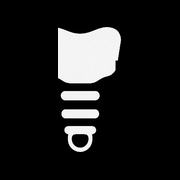
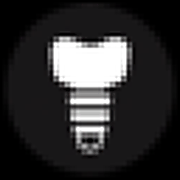
fix: corrige icones PWA da Smile Space (maskable, safe area, manifest e cache)

diff --git a/sw.js b/sw.js
@@ -1,10 +1,19 @@
-/* SmileSpace — service worker mínimo para instalabilidade PWA.
-   Sem cache de conteúdo: apenas ativa e assume o controle,
-   sem risco de servir páginas desatualizadas. */
-self.addEventListener('install', (event) => {
+/* SmileSpace - service worker minimo para instalabilidade PWA.
+   Sem cache de conteudo: apenas ativa e assume o controle,
+   sem risco de servir paginas desatualizadas.
+   Versao atualizada para forcar renovacao dos icones PWA. */
+const SMILESPACE_SW_VERSION = "2026-11-09-icons";
+
+self.addEventListener("install", (event) => {
   self.skipWaiting();
 });
 
-self.addEventListener('activate', (event) => {
-  event.waitUntil(self.clients.claim());
+self.addEventListener("activate", (event) => {
+  event.waitUntil((async () => {
+    if (self.caches) {
+      const keys = await self.caches.keys();
+      await Promise.all(keys.map((key) => self.caches.delete(key)));
+    }
+    await self.clients.claim();
+  })());
 });

diff --git a/atendimento.html b/atendimento.html
@@ -32,7 +32,9 @@
     <meta name="twitter:image:alt" content="Logotipo da SmileSpace Odontologia, clínica odontológica em Belo Horizonte">
 
     <link rel="icon" href="img/favicon.png" type="image/png" sizes="64x64">
-    <link rel="shortcut icon" href="img/favicon.png" type="image/png">
+    <link rel="icon" href="img/favicon-32x32.png" type="image/png" sizes="32x32">
+    <link rel="icon" href="img/favicon-16x16.png" type="image/png" sizes="16x16">
+    <link rel="shortcut icon" href="img/favicon.ico" type="image/x-icon">
     <link rel="apple-touch-icon" sizes="180x180" href="img/apple-touch-icon.png">
     <link rel="manifest" href="site.webmanifest">
     <link rel="stylesheet" href="https://cdnjs.cloudflare.com/ajax/libs/font-awesome/6.4.0/css/all.min.css" integrity="sha512-iecdLmaskl7CVkqkXNQ/ZH/XLlvWZOJyj7Yy7tcenmpD1ypASozpmT/E0iPtmFIB46ZmdtAc9eNBvH0H/ZpiBw==" crossorigin="anonymous" referrerpolicy="no-referrer">

diff --git a/404.html b/404.html
@@ -9,8 +9,10 @@
     <link rel="canonical" href="https://smilespace.com.br/404.html">
     <meta name="theme-color" content="#000000">
     <link rel="icon" href="img/favicon.png" type="image/png" sizes="64x64">
-    <link rel="shortcut icon" href="img/favicon.png" type="image/png">
-    <link rel="apple-touch-icon" href="img/apple-touch-icon.png">
+    <link rel="icon" href="img/favicon-32x32.png" type="image/png" sizes="32x32">
+    <link rel="icon" href="img/favicon-16x16.png" type="image/png" sizes="16x16">
+    <link rel="shortcut icon" href="img/favicon.ico" type="image/x-icon">
+    <link rel="apple-touch-icon" sizes="180x180" href="img/apple-touch-icon.png">
     <link rel="manifest" href="site.webmanifest">
     <link rel="preconnect" href="https://fonts.googleapis.com">
     <link rel="preconnect" href="https://fonts.gstatic.com" crossorigin>

diff --git a/drgabrielbarbosa.html b/drgabrielbarbosa.html
@@ -58,7 +58,9 @@
     }
     </script>
     <link rel="icon" href="img/favicon.png" type="image/png" sizes="64x64">
-    <link rel="shortcut icon" href="img/favicon.png" type="image/png">
+    <link rel="icon" href="img/favicon-32x32.png" type="image/png" sizes="32x32">
+    <link rel="icon" href="img/favicon-16x16.png" type="image/png" sizes="16x16">
+    <link rel="shortcut icon" href="img/favicon.ico" type="image/x-icon">
     <link rel="apple-touch-icon" sizes="180x180" href="img/apple-touch-icon.png">
     <link rel="manifest" href="site.webmanifest">
     <link rel="stylesheet" href="https://cdnjs.cloudflare.com/ajax/libs/font-awesome/6.4.0/css/all.min.css" integrity="sha512-iecdLmaskl7CVkqkXNQ/ZH/XLlvWZOJyj7Yy7tcenmpD1ypASozpmT/E0iPtmFIB46ZmdtAc9eNBvH0H/ZpiBw==" crossorigin="anonymous" referrerpolicy="no-referrer" />

diff --git a/drherbertfelipe.html b/drherbertfelipe.html
@@ -58,7 +58,9 @@
     }
     </script>
     <link rel="icon" href="img/favicon.png" type="image/png" sizes="64x64">
-    <link rel="shortcut icon" href="img/favicon.png" type="image/png">
+    <link rel="icon" href="img/favicon-32x32.png" type="image/png" sizes="32x32">
+    <link rel="icon" href="img/favicon-16x16.png" type="image/png" sizes="16x16">
+    <link rel="shortcut icon" href="img/favicon.ico" type="image/x-icon">
     <link rel="apple-touch-icon" sizes="180x180" href="img/apple-touch-icon.png">
     <link rel="manifest" href="site.webmanifest">
     <link rel="stylesheet" href="https://cdnjs.cloudflare.com/ajax/libs/font-awesome/6.4.0/css/all.min.css" integrity="sha512-iecdLmaskl7CVkqkXNQ/ZH/XLlvWZOJyj7Yy7tcenmpD1ypASozpmT/E0iPtmFIB46ZmdtAc9eNBvH0H/ZpiBw==" crossorigin="anonymous" referrerpolicy="no-referrer" />

diff --git a/index.html b/index.html
@@ -127,7 +127,9 @@
     </script>
 
     <link rel="icon" href="img/favicon.png" type="image/png" sizes="64x64">
-    <link rel="shortcut icon" href="img/favicon.png" type="image/png">
+    <link rel="icon" href="img/favicon-32x32.png" type="image/png" sizes="32x32">
+    <link rel="icon" href="img/favicon-16x16.png" type="image/png" sizes="16x16">
+    <link rel="shortcut icon" href="img/favicon.ico" type="image/x-icon">
     <link rel="apple-touch-icon" sizes="180x180" href="img/apple-touch-icon.png">
     <link rel="manifest" href="site.webmanifest">
     <link rel="stylesheet" href="https://cdnjs.cloudflare.com/ajax/libs/font-awesome/6.4.0/css/all.min.css" integrity="sha512-iecdLmaskl7CVkqkXNQ/ZH/XLlvWZOJyj7Yy7tcenmpD1ypASozpmT/E0iPtmFIB46ZmdtAc9eNBvH0H/ZpiBw==" crossorigin="anonymous" referrerpolicy="no-referrer" />

diff --git a/implante-dentario-belo-horizonte.html b/implante-dentario-belo-horizonte.html
@@ -96,7 +96,10 @@
     }
     </script>
 
-    <link rel="icon" href="img/favicon.png" type="image/png">
+    <link rel="icon" href="img/favicon.png" type="image/png" sizes="64x64">
+    <link rel="icon" href="img/favicon-32x32.png" type="image/png" sizes="32x32">
+    <link rel="icon" href="img/favicon-16x16.png" type="image/png" sizes="16x16">
+    <link rel="shortcut icon" href="img/favicon.ico" type="image/x-icon">
     <link rel="apple-touch-icon" sizes="180x180" href="img/apple-touch-icon.png">
     <link rel="manifest" href="site.webmanifest">
     <link href="https://fonts.googleapis.com/css2?family=Montserrat:wght@400;500;600;700&family=Playfair+Display:wght@600;700&display=swap" rel="stylesheet">
